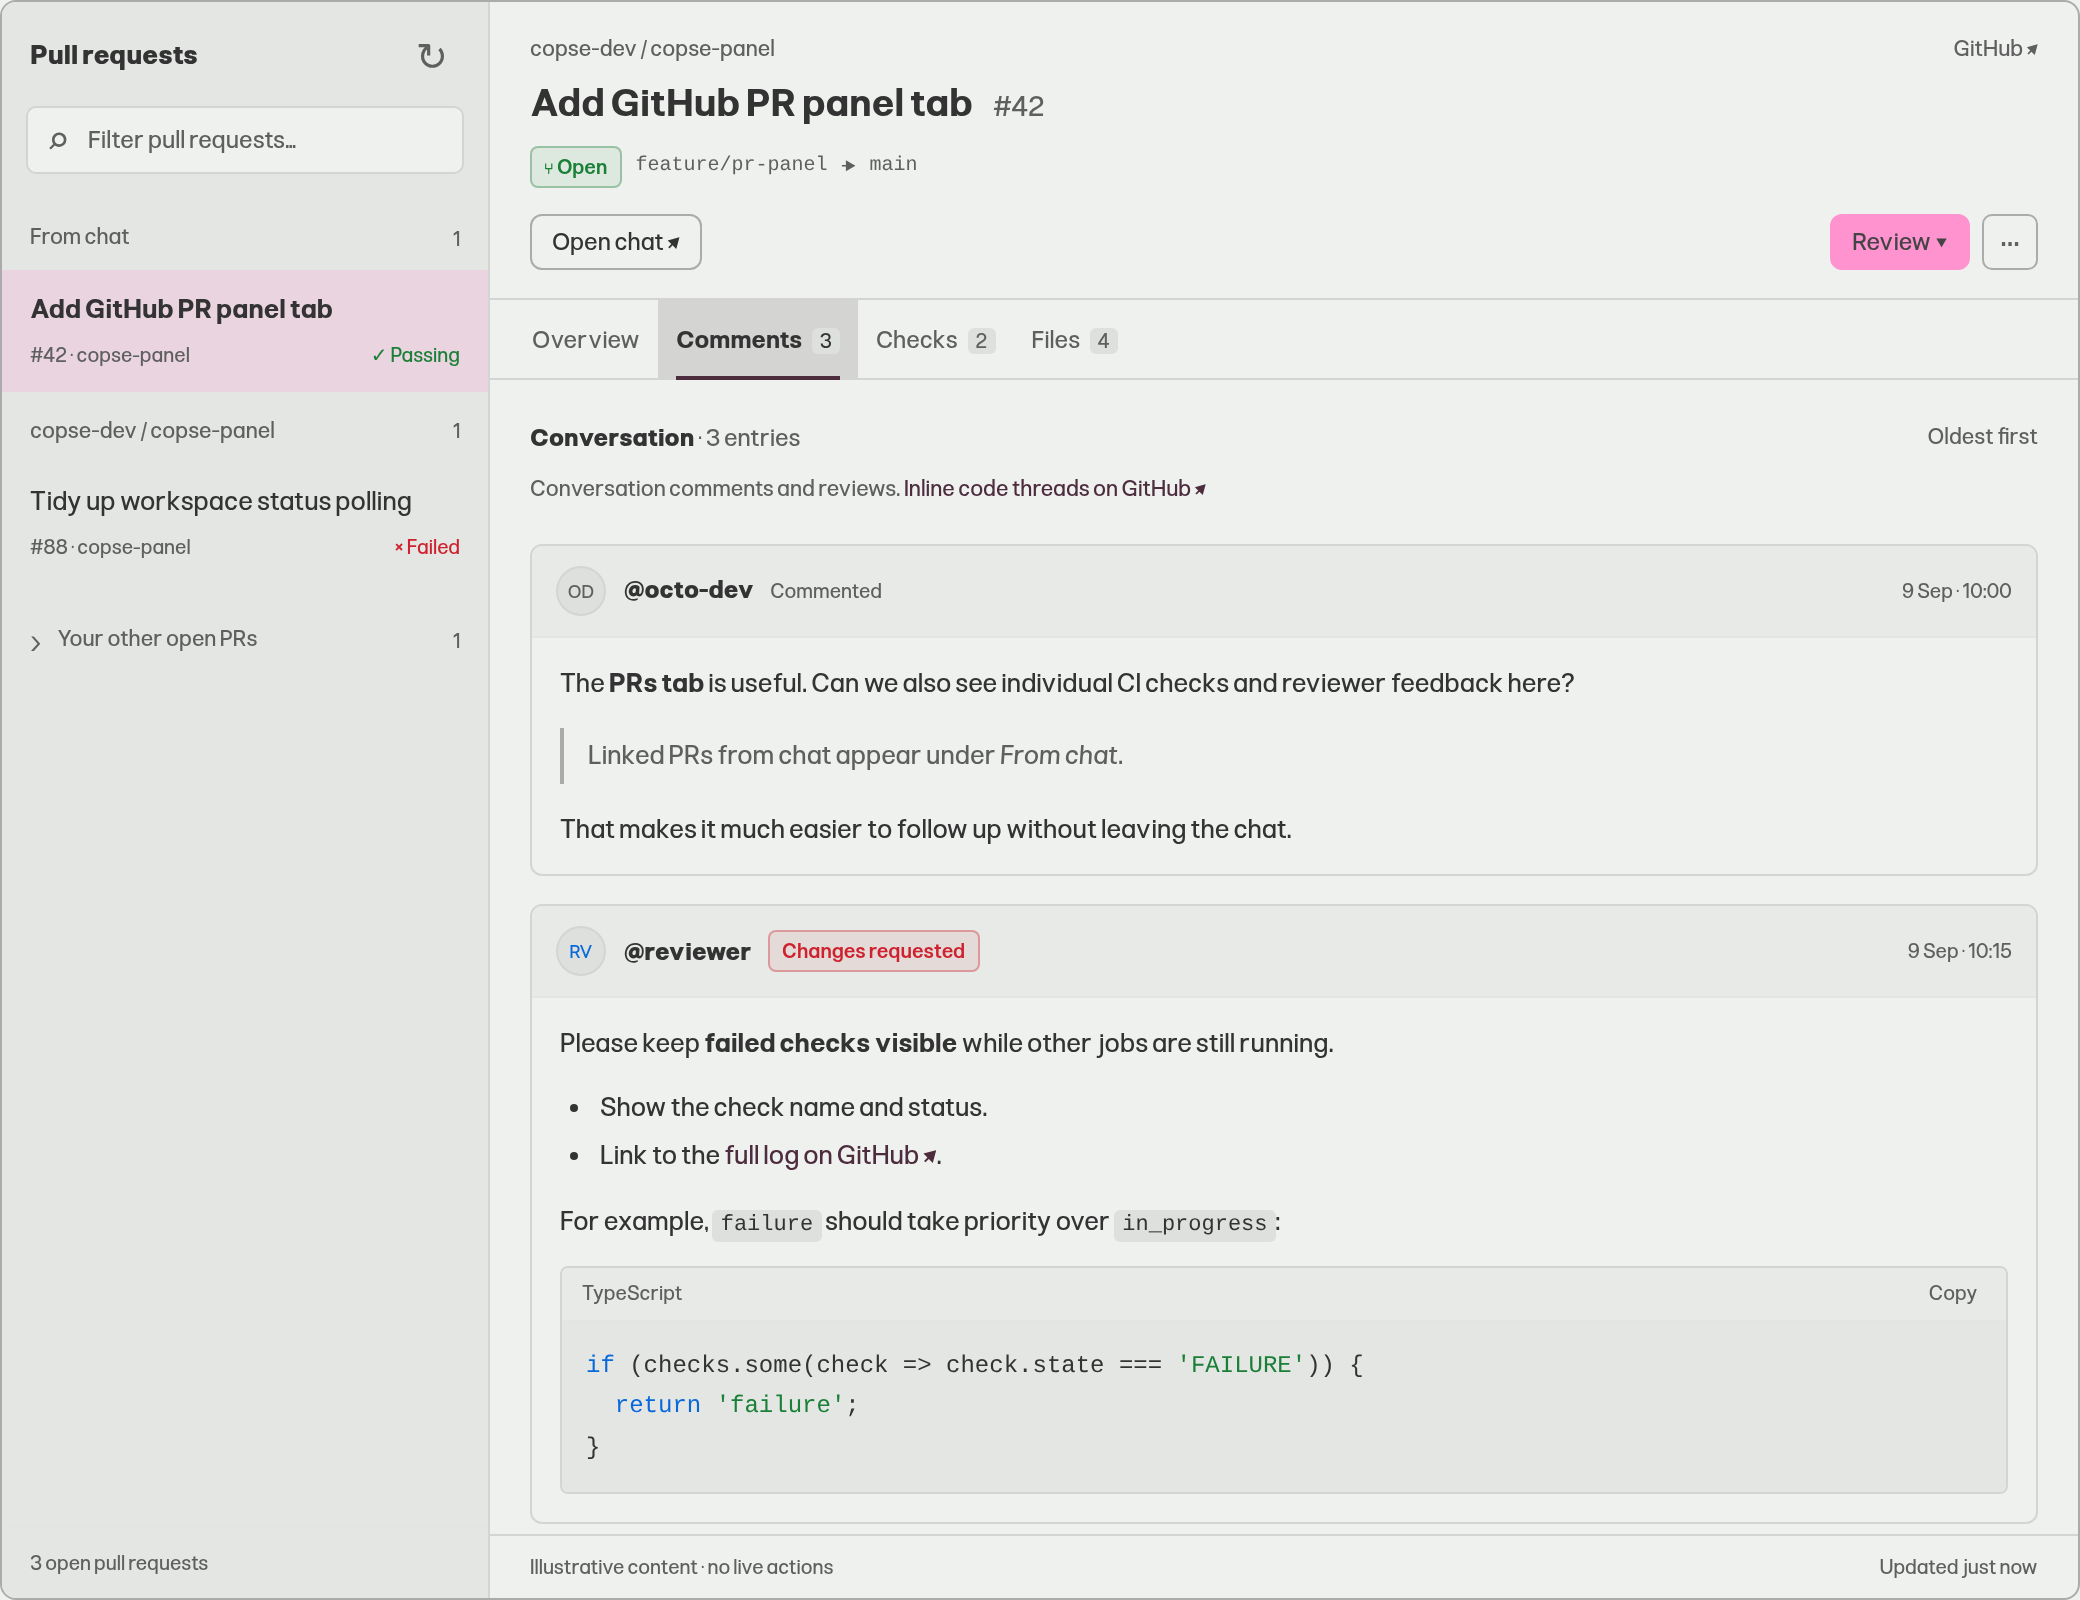
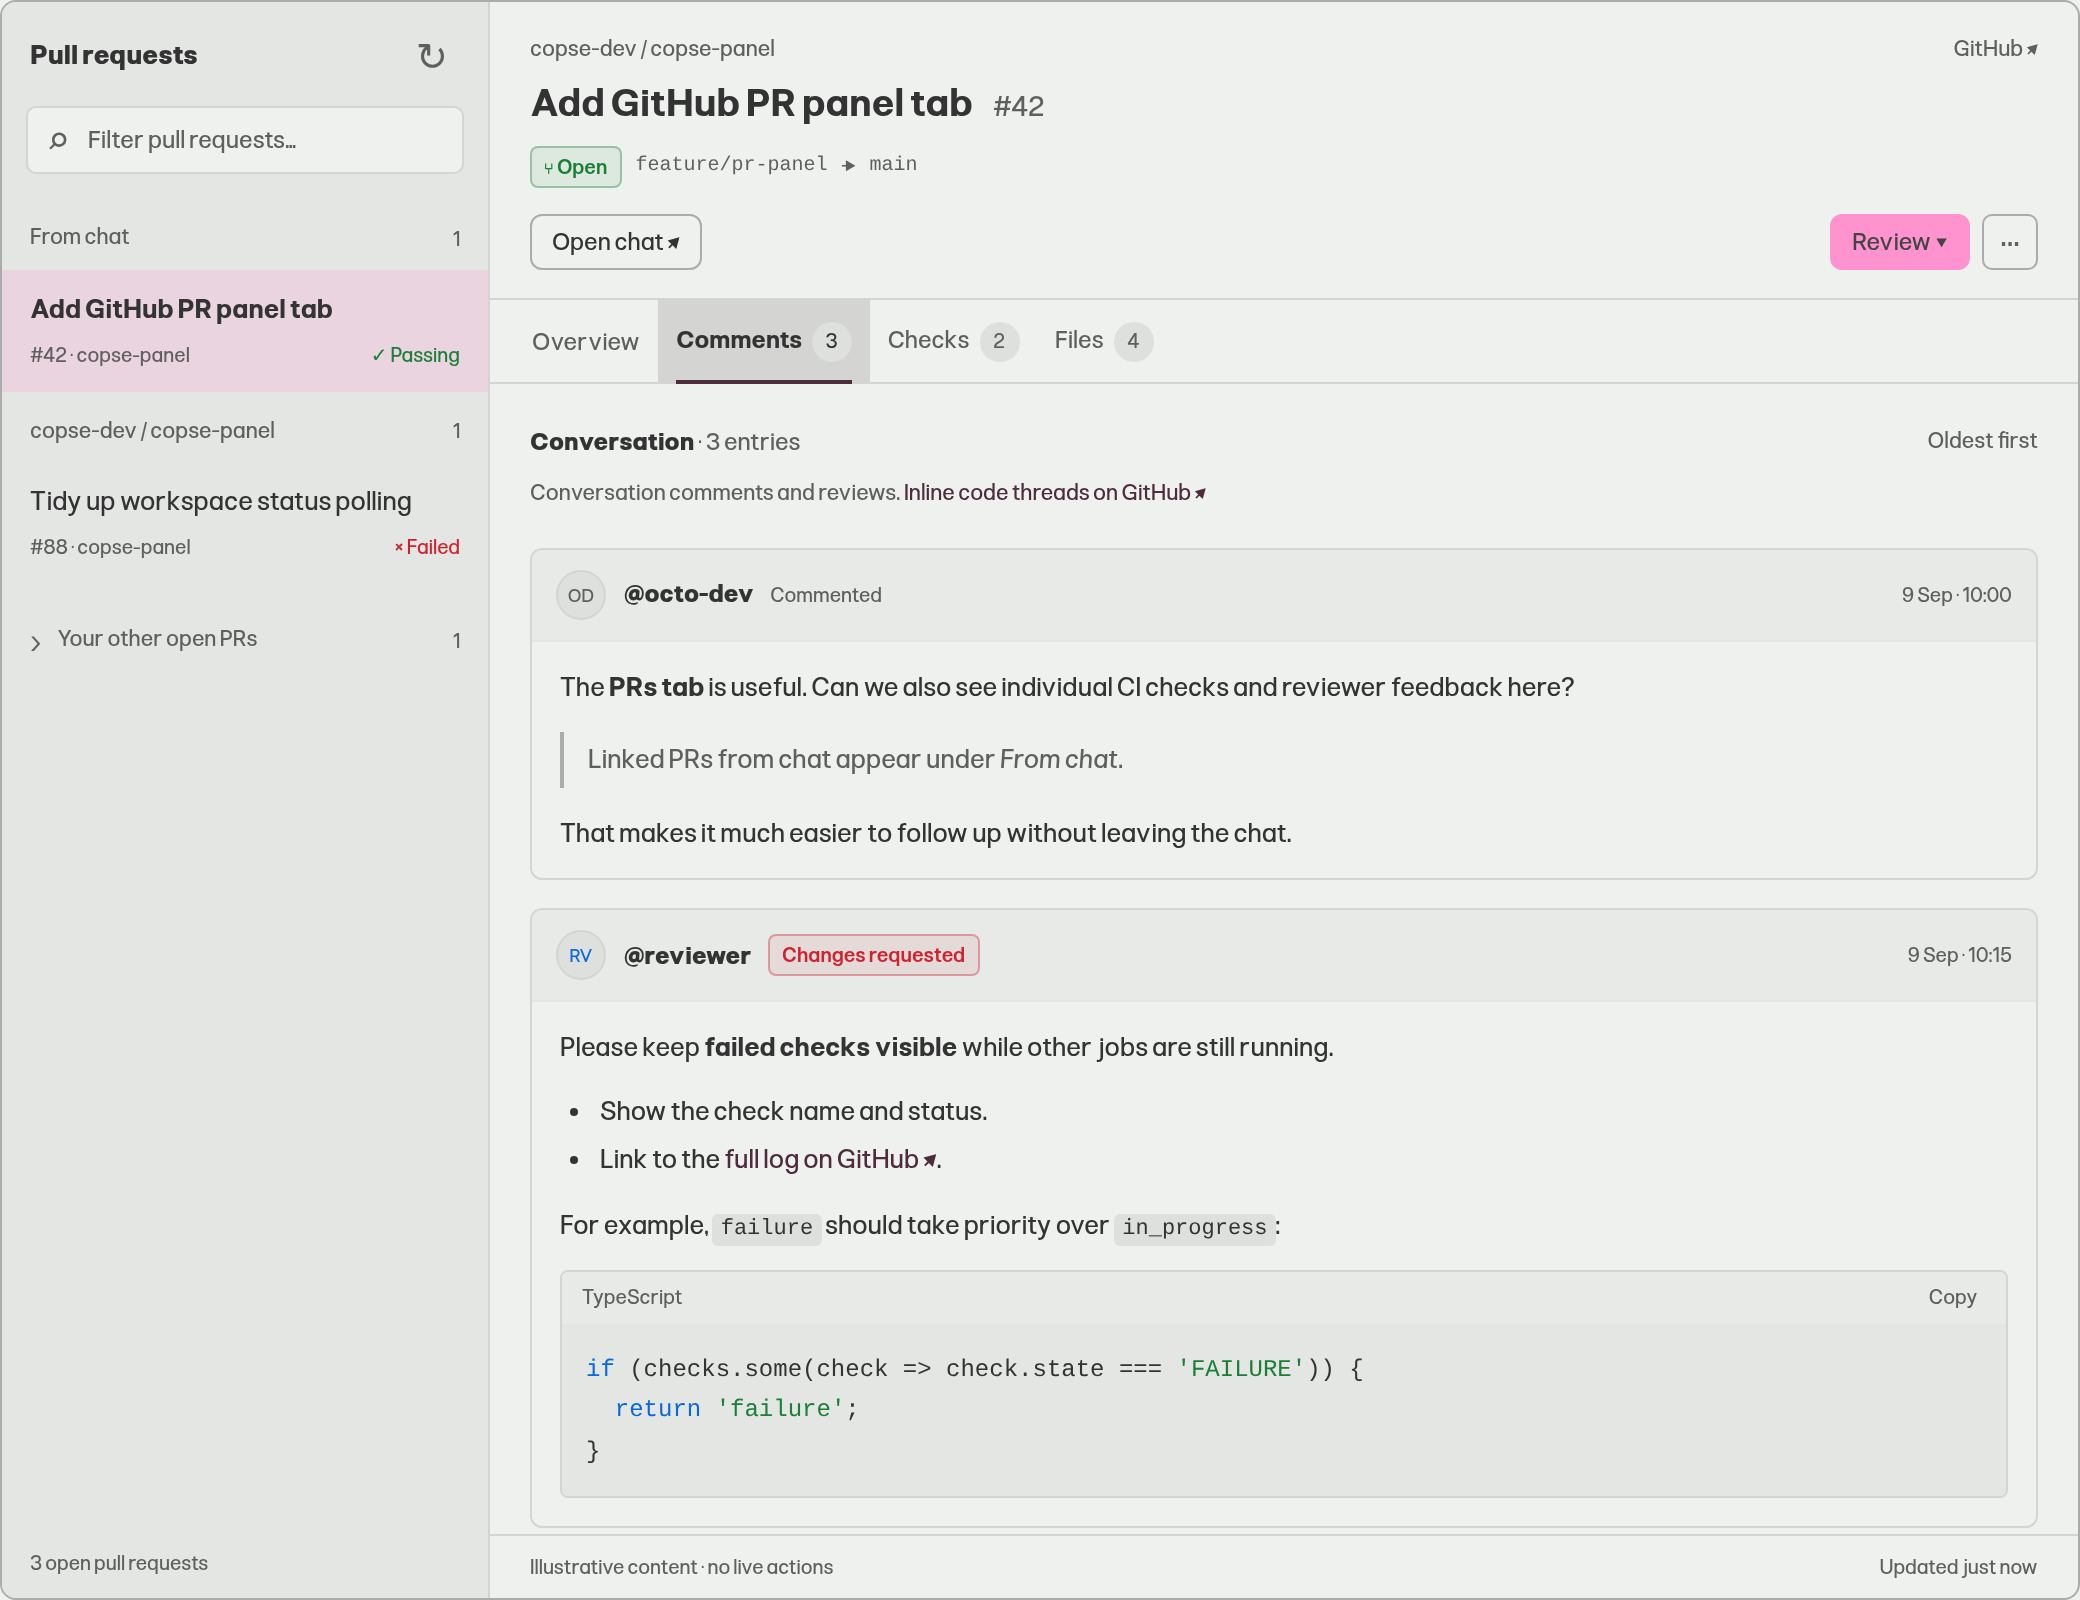
Keep PR tab count badges round and hide them in narrow panels

diff --git a/tests/e2e/pr-panel-activity.e2e.ts b/tests/e2e/pr-panel-activity.e2e.ts
@@ -55,6 +55,38 @@ describe('PR comments and checks', () => {
       )
     })
     expect(commentLayout).toBe(true)
+    await expect(await $('.pr-section-count')).not.toBeDisplayed()
+    await $('[aria-label="Expand pull requests over chat"]').click()
+    await $('.pr-section-count').waitForDisplayed({ timeout: 5_000 })
+    const countsAreRound = await browser.execute(() => {
+      const badges = [...document.querySelectorAll<HTMLElement>('.pr-section-count')]
+      return (
+        badges.length === 3 &&
+        badges.every((badge) => {
+          const bounds = badge.getBoundingClientRect()
+          return (
+            bounds.width > 0 &&
+            Math.abs(bounds.width - bounds.height) < 0.5 &&
+            getComputedStyle(badge).borderRadius === '50%'
+          )
+        })
+      )
+    })
+    expect(countsAreRound).toBe(true)
+    await saveElementScreenshot('#pane-files', 'pr-activity-comments-expanded.png')
+    const multiDigitCountIsRound = await browser.execute(() => {
+      const badge = document.querySelector<HTMLElement>('.pr-section-count')
+      if (!badge) return false
+      const original = badge.textContent
+      badge.textContent = '100+'
+      const bounds = badge.getBoundingClientRect()
+      const fits = badge.scrollWidth <= badge.clientWidth + 1
+      badge.textContent = original
+      return fits && Math.abs(bounds.width - bounds.height) < 0.5
+    })
+    expect(multiDigitCountIsRound).toBe(true)
+    await $('[aria-label="Restore pull requests"]').click()
+    await browser.waitUntil(async () => !(await $('.pr-section-count').isDisplayed()))
     await expect(await $('.pr-viewer-description')).not.toBeDisplayed()
     await expect(await $('.pr-viewer-files')).not.toBeDisplayed()
     await saveElementScreenshot('#pane-files', 'pr-activity-comments.png')

diff --git a/prototypes/github-panels/prototype.css b/prototypes/github-panels/prototype.css
@@ -267,6 +267,7 @@ input::placeholder {
   border-top: 1px solid var(--border-subtle);
 }
 .detail {
+  container-type: inline-size;
   display: flex;
   flex-direction: column;
   min-height: 0;
@@ -419,9 +420,16 @@ h2 {
   background: var(--accent);
 }
 .tabs button span {
+  display: inline-grid;
+  place-items: center;
+  flex-shrink: 0;
+  width: max-content;
+  min-width: 20px;
+  aspect-ratio: 1;
+  line-height: 1;
   font-size: 10px;
   padding: 0 4px;
-  border-radius: 3px;
+  border-radius: 50%;
   background: var(--bg-muted);
   margin-left: 3px;
   font-weight: 400;
@@ -842,5 +850,10 @@ summary.check-group-title > span {
   time {
     flex-basis: calc(100% - 34px);
     margin-left: 34px;
+  }
+}
+@container (max-width: 380px) {
+  .tabs button span {
+    display: none;
   }
 }

diff --git a/src/renderer/styles/global/layout.css b/src/renderer/styles/global/layout.css
@@ -1484,10 +1484,17 @@
   font-weight: 600;
 }
 .pr-section-count {
+  display: inline-grid;
+  place-items: center;
+  flex-shrink: 0;
+  width: max-content;
+  min-width: calc(20px * var(--ui-scale));
+  aspect-ratio: 1;
+  line-height: 1;
   font-size: var(--font-size-2xs);
   font-weight: 400;
   padding: 0 var(--spacing-xs);
-  border-radius: var(--radius);
+  border-radius: 50%;
   background: var(--bg-muted);
 }
 .pr-activity {
@@ -1578,6 +1585,9 @@
   min-width: 0;
 }
 @container (max-width: 380px) {
+  .pr-section-count {
+    display: none;
+  }
   .pr-comment-meta time {
     grid-column: 2 / -1;
   }
